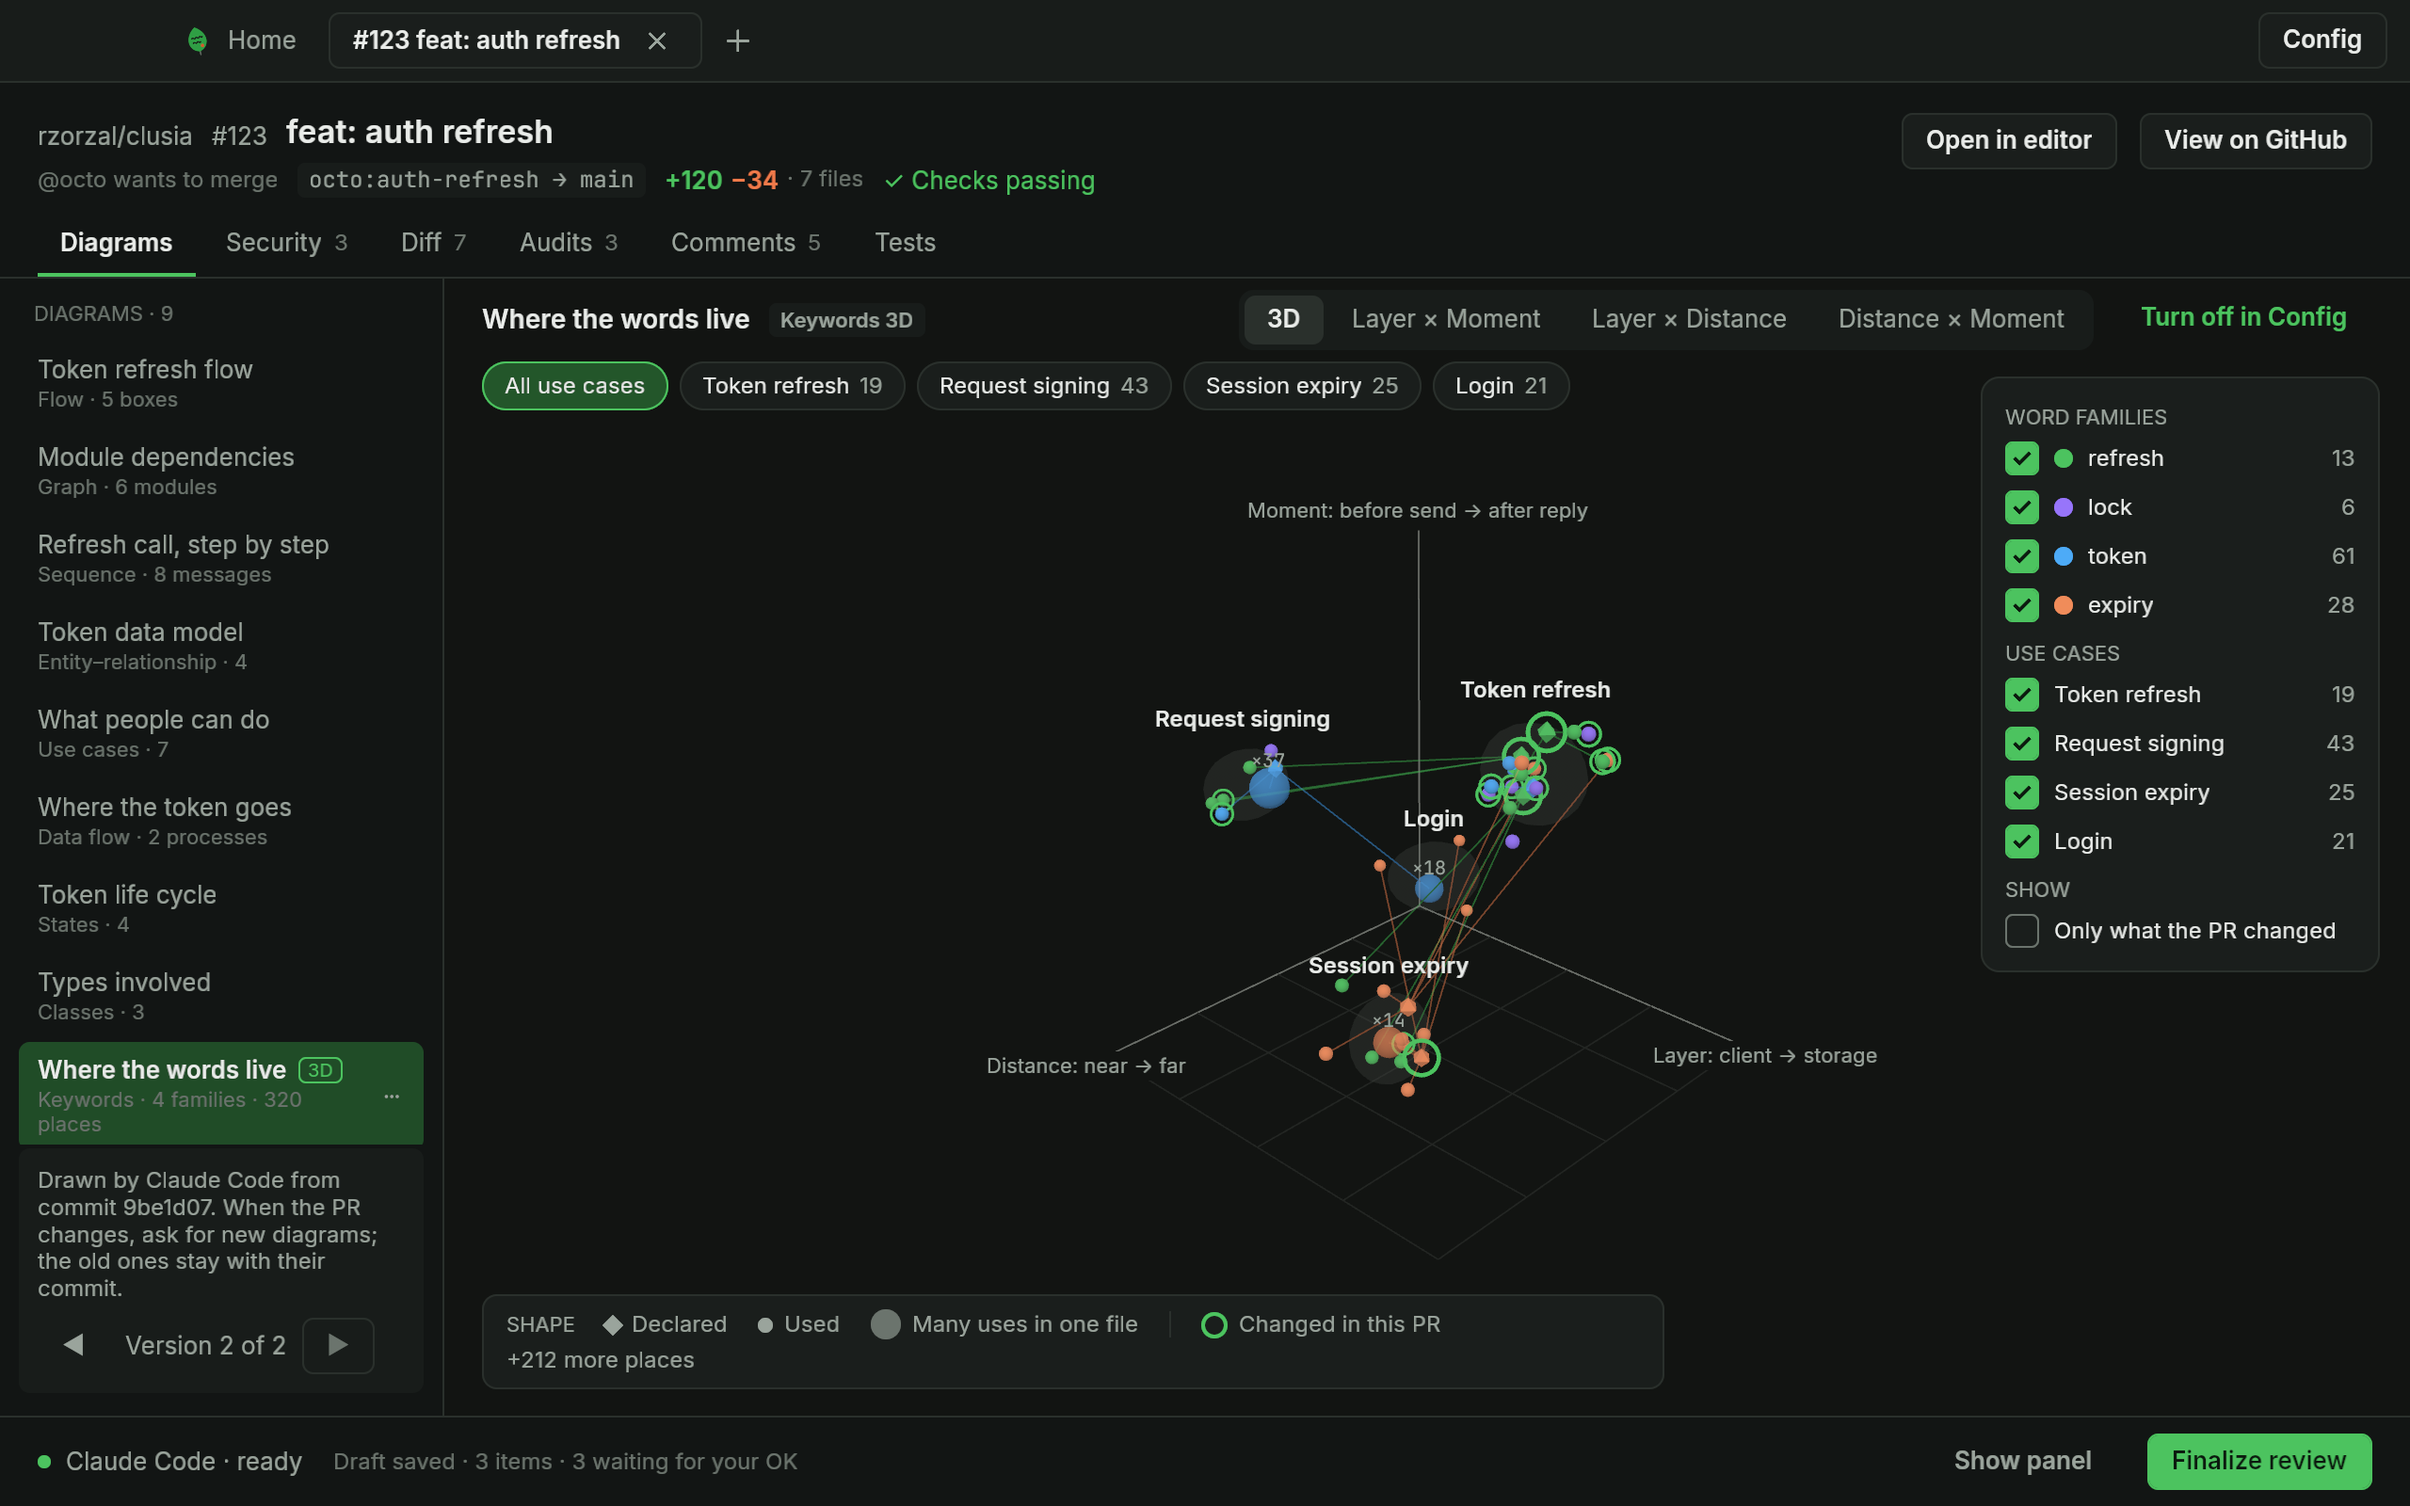
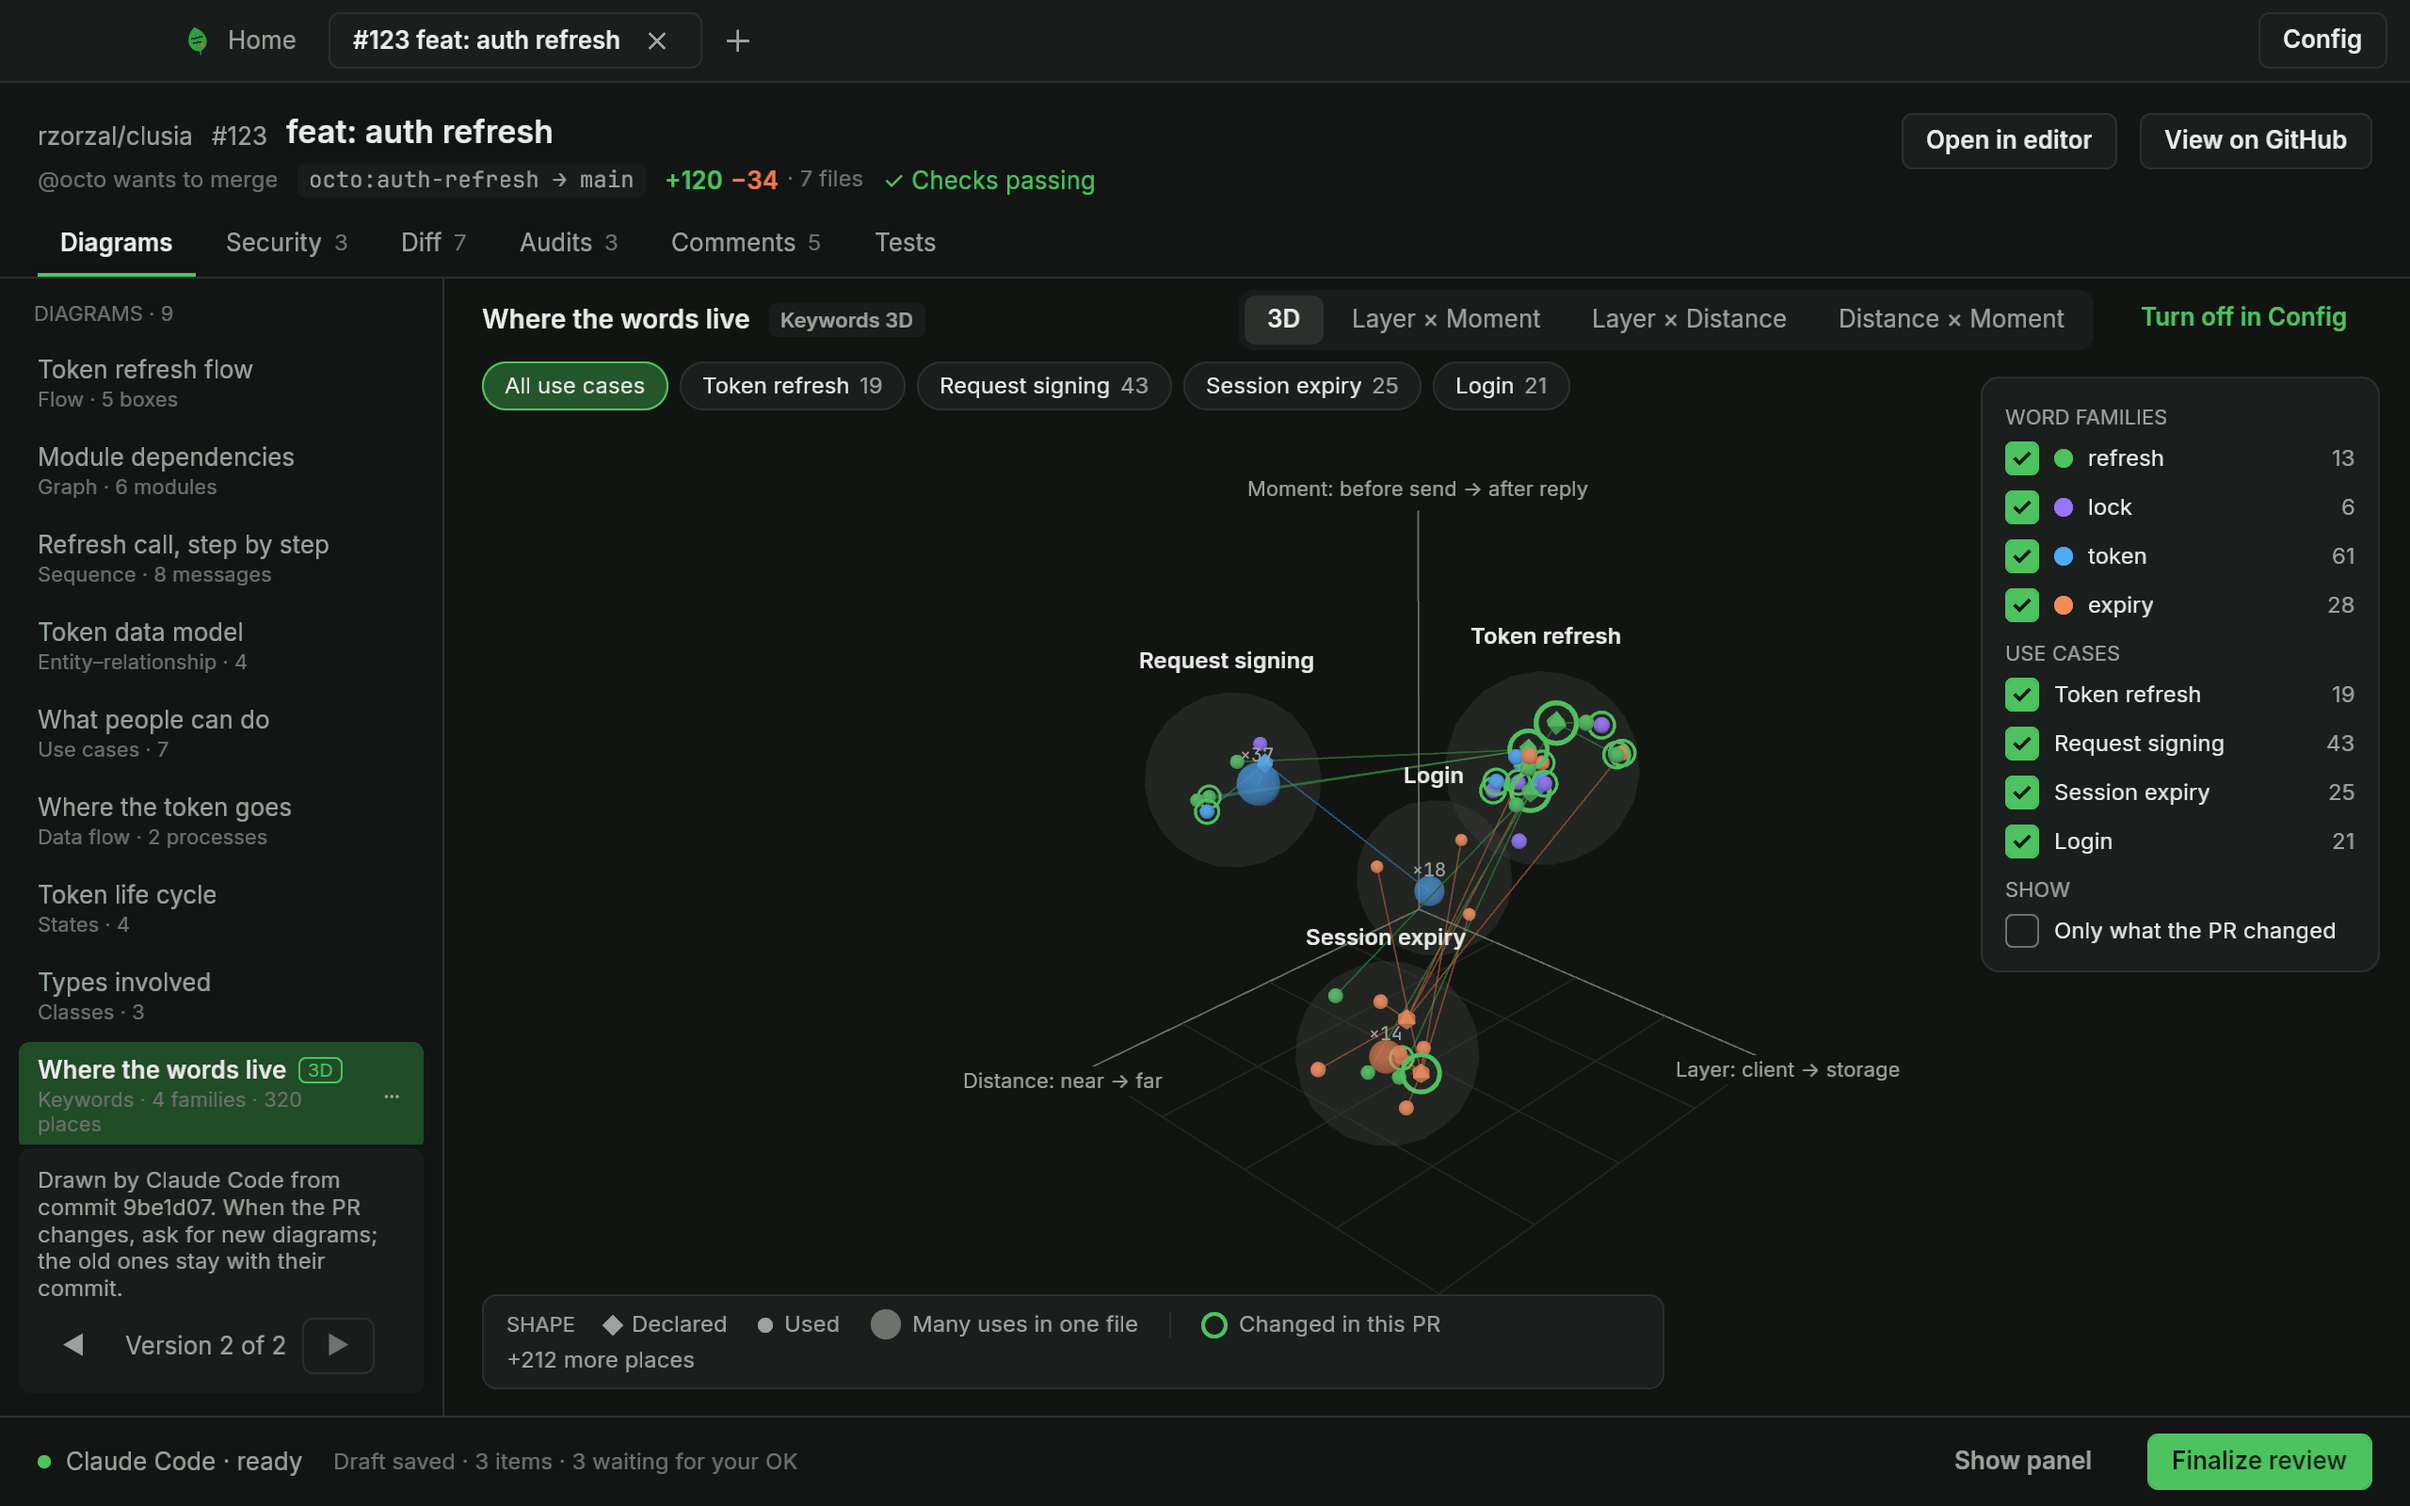
fix(app): bring the 3D scene back to the size of the mockup's and make the use-case clouds the dominant soft shapes

diff --git a/crates/clusia-app/src/screens/review/diagrams/keywords/render.rs b/crates/clusia-app/src/screens/review/diagrams/keywords/render.rs
@@ -45,7 +45,7 @@ pub const LINE_WIDTH: f32 = 1.5;
 
 /// How much farther than the mockup's offsets the default and the focus cameras sit, so the
 /// cube's floor and its axis names stay between the pills and the legend.
-const FRAMING: f32 = 1.5;
+const FRAMING: f32 = 1.4;
 
 impl Default for CameraPose {
     /// The mockup's view direction, `FRAMING` times as far: from (3.4, 2.3, 3.6) of the origin.
@@ -783,8 +783,10 @@ mod tests {
 
     #[test]
     fn the_default_framing_keeps_the_whole_cube_between_the_pills_and_the_legend() {
-        // A typical canvas: the pills take the top 8 %, the legend the bottom 12 %.
+        // A typical canvas: the pills take the top 11 %, the legend the bottom 10 %.
         let size = Vec2::new(1270.0, 760.0);
+        let (free_top, free_bottom) = (size.y * 0.11, size.y * 0.90);
+        let (mut top, mut bottom) = (f32::MAX, f32::MIN);
         let pose = CameraPose::default();
         for x in [-1.0, 1.0] {
             for y in [-1.0, 1.0] {
@@ -792,13 +794,17 @@ mod tests {
                     let (at, _) = project(&pose, Lens::Perspective, size, world([x, y, z]))
                         .expect("in front of the camera");
                     assert!(
-                        at.y > size.y * 0.08 && at.y < size.y * 0.88,
+                        at.y > free_top && at.y < free_bottom,
                         "corner {x} {y} {z} at {at}"
                     );
                     assert!(at.x > 0.0 && at.x < size.x, "{at}");
+                    top = top.min(at.y);
+                    bottom = bottom.max(at.y);
                 }
             }
         }
+        let used = (bottom - top) / (free_bottom - free_top);
+        assert!(used >= 0.75, "the cube uses only {used} of the free height");
     }
 
     #[test]

diff --git a/crates/clusia-diagram/src/keywords.rs b/crates/clusia-diagram/src/keywords.rs
@@ -21,7 +21,7 @@ pub const RADIUS_DECLARED: f32 = 0.044;
 pub const RADIUS_USED: f32 = 0.028;
 /// A bundle of `n` places has radius `RADIUS_USED + RADIUS_BUNDLE_GROWTH · √n`.
 pub const RADIUS_BUNDLE_GROWTH: f32 = 0.0096;
-pub const CLOUD_MIN: f32 = 0.15;
+pub const CLOUD_MIN: f32 = 0.35;
 pub const CLOUD_MAX: f32 = 0.6;
 
 #[derive(Clone, Debug, PartialEq)]
@@ -602,6 +602,11 @@ mod tests {
             let j = jitter("src/a.rs", line, "retry");
             assert!(dist(j, [0.0; 3]) <= JITTER + 1e-6, "{line}: {j:?}");
         }
+    }
+
+    #[test]
+    fn a_cloud_is_never_smaller_than_a_third_of_a_cube_unit_per_axis() {
+        const { assert!(CLOUD_MIN >= 0.35 && CLOUD_MAX == 0.6) };
     }
 
     #[test]

diff --git a/crates/clusia-app/src/review_state.rs b/crates/clusia-app/src/review_state.rs
@@ -1287,7 +1287,7 @@ mod tests {
         );
         let eye = ui.camera.eye();
         assert!(
-            eye.distance(bevy::math::Vec3::new(3.4, 2.3, 3.6) * 1.5) < 1e-4,
+            eye.distance(bevy::math::Vec3::new(3.4, 2.3, 3.6) * 1.4) < 1e-4,
             "{eye}"
         );
     }
